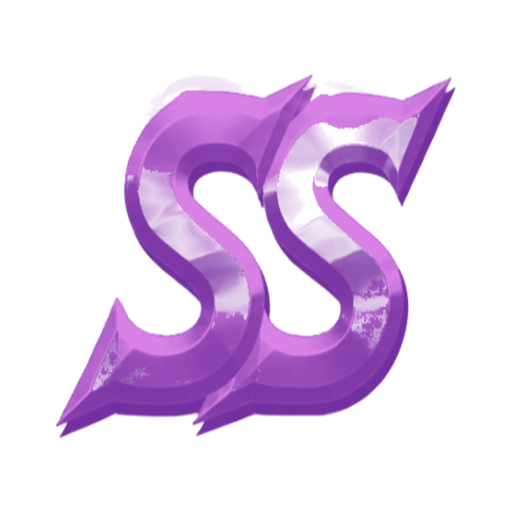
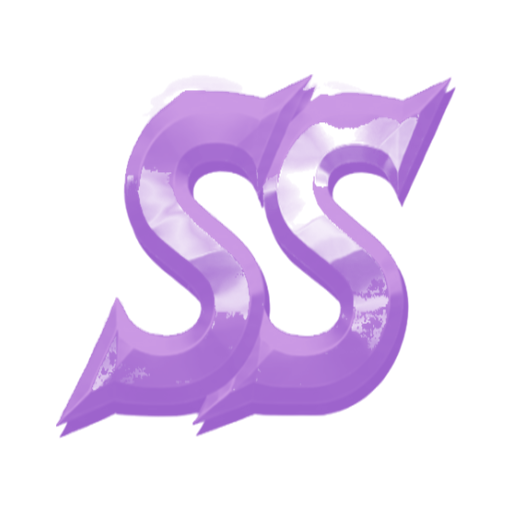
Brighten elite grade badges

Changed region(s): [[0.0938, 0.1562, 0.8125, 0.8438], [0.625, 0.1562, 0.9062, 0.4062], [0.625, 0.2188, 0.75, 0.25]]

diff --git a/app/globals.css b/app/globals.css
@@ -1340,6 +1340,10 @@ footer small { margin-left:auto; color:#71898b; }
 /* 병과명은 캐릭터 아래에 두어 실루엣을 먼저 읽게 한다. */
 .troop-tree__node .troop-tree__unit-art{order:0}.troop-tree__node strong{order:1;margin-top:1px}
 
+/* 작은 카드에서도 상위 등급이 배경에 묻히지 않도록 전용 광채를 더한다. */
+img[src$="grade-a.png"]{filter:drop-shadow(0 0 2px rgba(255,34,78,.98)) drop-shadow(0 1px 2px rgba(35,0,7,.88))!important}
+img[src$="grade-ss.png"]{filter:drop-shadow(0 0 2px rgba(205,132,255,.98)) drop-shadow(0 0 3px rgba(117,63,255,.65)) drop-shadow(0 1px 2px rgba(20,4,40,.88))!important}
+
 /* 병과를 눌렀을 때만 열리는 출전 정보 툴팁. */
 .troop-tooltip{position:absolute;z-index:12;right:4.5%;bottom:4%;width:176px;box-sizing:border-box;padding:12px 13px 11px;border:1px solid rgba(229,185,100,.8);border-radius:7px;background:linear-gradient(145deg,rgba(49,28,11,.97),rgba(22,13,7,.96));box-shadow:0 8px 19px rgba(12,6,2,.62),inset 0 0 0 1px rgba(255,223,151,.14);color:#f7e2ae;text-align:left}.troop-tooltip:before{position:absolute;right:18px;bottom:-7px;width:12px;height:12px;border-right:1px solid rgba(229,185,100,.8);border-bottom:1px solid rgba(229,185,100,.8);background:#1c1008;content:"";transform:rotate(45deg)}.troop-tooltip p{margin:0;color:#cba465;font-size:8px;font-weight:800;letter-spacing:.08em}.troop-tooltip h3{margin:4px 0 8px;color:#ffebad;font-family:Georgia,"Malgun Gothic",serif;font-size:17px;letter-spacing:.06em}.troop-tooltip dl{display:grid;grid-template-columns:1fr 1fr;gap:5px 9px;margin:0 0 11px}.troop-tooltip dl div{display:grid;gap:1px}.troop-tooltip dt{color:#b79b70;font-size:8px}.troop-tooltip dd{margin:0;color:#f6e5bd;font-size:10px;font-weight:800}.troop-tooltip__close{position:absolute;top:5px;right:7px;border:0;background:transparent;color:#cba465;font-size:18px;line-height:14px;cursor:pointer}.troop-tooltip__deploy,.troop-tooltip__active{display:grid;width:100%;height:25px;box-sizing:border-box;place-items:center;border:1px solid #d3ad5d;border-radius:4px;background:linear-gradient(#855728,#4a2c12);color:#fff0bb;font-family:"Malgun Gothic",sans-serif;font-size:10px;font-weight:900;text-shadow:0 1px 1px #211006}.troop-tooltip__deploy{cursor:pointer}.troop-tooltip__deploy:hover{filter:brightness(1.18)}.troop-tooltip__active{border-color:#4eafc6;background:linear-gradient(#286b79,#17404c);color:#c8f6ff}@media(max-width:700px){.troop-tooltip{right:2%;bottom:2%;width:150px;padding:9px 10px}.troop-tooltip h3{font-size:15px}.troop-tooltip:before{display:none}}
 /* 병사 기록첩: 영웅정보와 같은 목재 헤더, 병영 배경 위의 출전 병과 편성표. */
